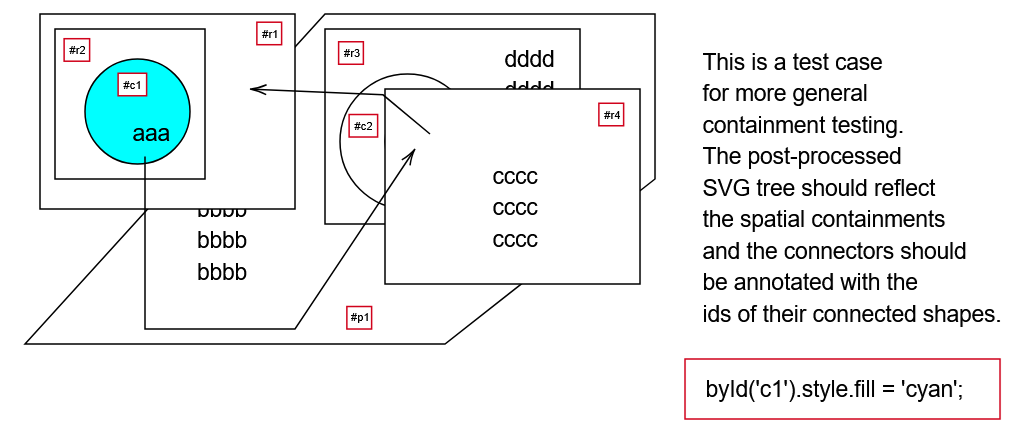
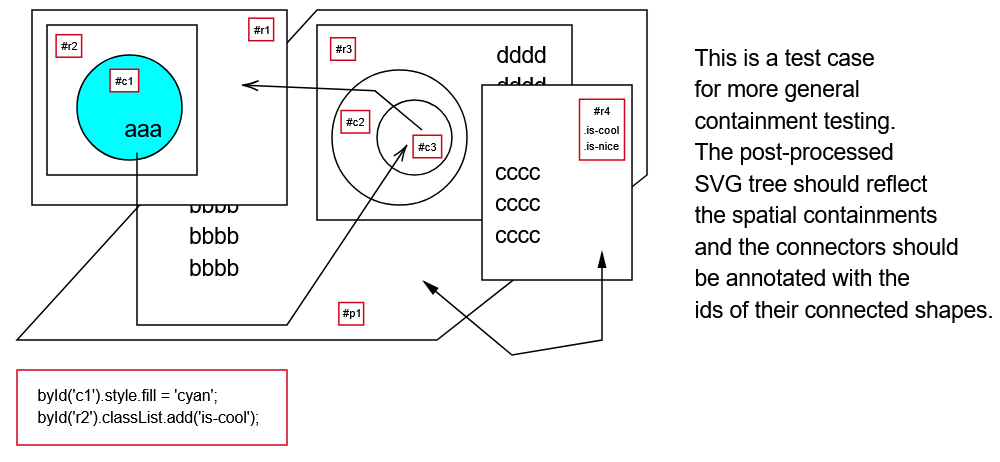
Get connectors working

diff --git a/general-containment.js b/general-containment.js
@@ -34,6 +34,7 @@ vtables.domNode = {
   _parent: null,
 
   ['id']: (self) => {
+    // TODO: pull in + exec any red boxes on demand!?
     let id = attr(self, 'id');
     if (!id) {
       const prefix = send(self, 'idPrefix');
@@ -66,6 +67,23 @@ vtables.domNode = {
     const bb = self.getBBox(); // SMELL duped
     const [l,t,r,b] = [bb.x,bb.y,bb.x+bb.width,bb.y+bb.height];
     return [[l,t], [r,t], [r,b], [l,b]];
+  },
+  ['findTightestContainerIn:']: (self, elems) => { // -> containedIn
+    // MUCH nicer code than annotateAllContainments plus treeifyContainments
+    // I want to find my least / tightest container
+    let container = null; // Infinitely big initial container
+    elems.filter(other => self !== other).forEach(other => {
+      const rivalExists = send(other, 'encloses:', self);
+      if (rivalExists) {
+        const rival = other;
+        // If the rival sits within my current tightest container, rival is tighter
+        if (container === null || send(container, 'encloses:', rival)) container = rival;
+      }
+    });
+    if (container) {
+      addSetAttr(container.dataset, 'contains', send(self, 'id'));
+      self.dataset.containedIn = send(container, 'id');
+    }
   },
   ['specialize']: (self) => null,
   ['localRoot']: (self) => self,
@@ -150,6 +168,36 @@ vtables.byTag['polyline'] = {
     return vs;
   },
   ['encloses:']: () => false,
+  ['parseAsConnector']: (self) => {
+    if (send(self, 'isClosed')) throw [self, 'must not be closed!'];
+    const vs = send(self, 'vertices');
+    const endpoints = [vs[0],last(vs)];
+    const lroot = send(self, 'localRoot');
+    const arrowheads = Array.from(lroot.querySelectorAll('g'));
+    let arrowheadIndex = null;
+    if (arrowheads.length === 1) {
+      const m = arrowheads[0].transform.baseVal[0].matrix;
+      const pt = [m.e, m.f];
+      const [d0,d1] = [dist2(pt,endpoints[0]), dist2(pt,endpoints[1])];
+      if (d0 < d1) arrowheadIndex = 0;
+      else arrowheadIndex = 1;
+      endpoints[arrowheadIndex] = pt;
+    }
+    const connectionIds = endpoints.map(([x,y]) => {
+      const elems = document.elementsFromPoint(x,y);
+      let topmost = null;
+      for (topmost of elems) {
+        if (!lroot.contains(topmost)) break;
+      }
+      return send(topmost, 'id');
+    });
+    if (arrowheadIndex !== null) {
+      self.dataset.origin = connectionIds[1-arrowheadIndex];
+      self.dataset.target = connectionIds[arrowheadIndex];
+    } else {
+      self.dataset.connects = connectionIds.join(' ');
+    }
+  },
 };
 
 vtables.byTag['polygon'] = {
@@ -222,7 +270,9 @@ vtables.byTag['rect'] = {
     if (self.style.stroke === 'rgb(208, 2, 27)') {
       const lroot = send(self, 'localRoot');
       const paras = Array.from(lroot.querySelectorAll('.is-paragraph'));
+      let done = true;
       paras.forEach(p => {
+        if (!p.classList.contains('done')) done = false;
         const str = p.dataset.string;
         const lines = str.split('\n');
         if (lines.length === 1 && str.startsWith('#')) {
@@ -233,6 +283,7 @@ vtables.byTag['rect'] = {
           p.classList.add('is-code'); return true;
         }
       });
+      if (done) self.classList.add('done');
     }
     return false;
   },
@@ -305,16 +356,16 @@ vtables.byTag['g'] = {
       // #myId para sets container id=myId and self-deletes
       // SMELL what if new ID already in use
       parent_focus.id = str.substring(1); 
-      //self.remove();
+      self.classList.add('done');
     } else if (self.classList.contains('adds-class')) {
       // .myClass line adds myClass to container and self-deletes
       lines.forEach(l => {
         parent_focus.classList.add(l.substring(1));
       });
-      //self.remove();
+      self.classList.add('done');
     } else if (self.classList.contains('is-code')) {
       eval(str); // >:D
-      // self.remove()
+      self.classList.add('done');
     }
   }
 }
@@ -336,29 +387,10 @@ function init() {
   });
 
   elems = Object.values(e);
-  // MUCH nicer code than annotateAllContainments plus treeifyContainments
-  elems.forEach((el1, i) => {
-    // elem i wants to find its least / tightest container
-    let container = null; // Infinitely big initial container
-    elems.forEach((el2, j) => {
-      if (i !== j) {
-        const rivalExists = send(el2, 'encloses:', el1);
-        if (rivalExists) {
-          const rival = el2;
-          // If the rival sits within my current tightest container, rival is tighter
-          if (container === null || send(container, 'encloses:', rival)) container = rival;
-        }
-      }
-    });
-    if (container) {
-      addSetAttr(container.dataset, 'contains', send(el1, 'id'));
-      el1.dataset.containedIn = send(container, 'id');
-    }
-  });
+  elems.forEach(el => send(el, 'findTightestContainerIn:', elems));
   
   // MUCH nicer than makeDOMReflectContainmentTree
-  const elemsToReroot = all('[data-contained-in]');
-  elemsToReroot.forEach(child => {
+  all('[data-contained-in]').forEach(child => {
     send(child, 'reroot');
     delete child.dataset.containedIn;
   });
@@ -370,6 +402,10 @@ function init() {
   all('.sets-id').forEach(p => send(p, 'execute'));
   all('.adds-class').forEach(p => send(p, 'execute'));
   all('.is-code').forEach(p => send(p, 'execute'));
+  all('rect').forEach(r => send(r, 'parseAsExecutable'));
+  //all('.done').forEach(e => e.remove());
+
+  all('polyline').forEach(l => send(l, 'parseAsConnector'));
 
   return elems.length;
 }
